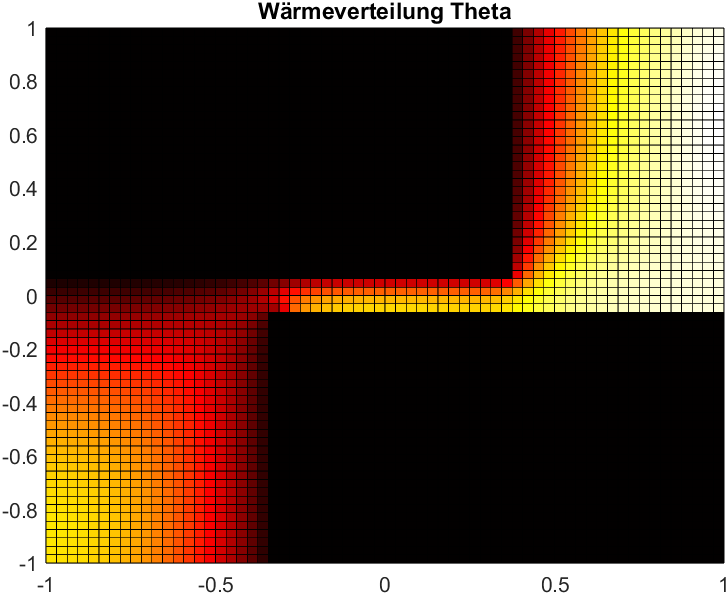
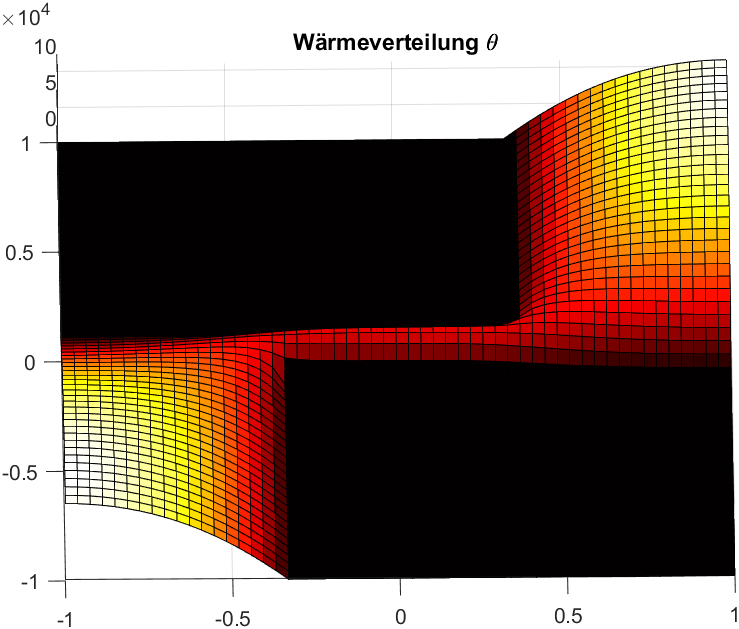
improved box meshing and added the power-loss plot

diff --git a/electro-thermal/createBoxes.m b/electro-thermal/createBoxes.m
@@ -21,9 +21,9 @@ inner_width = msh.nx - 2*outer_width;
 
 % --- Creating kappa Distribution -----------------------------------------
 
-boxeskappa(1).box = [1, outer_width+inner_width, outer_height+1, msh.ny, 1, msh.nz];
+boxeskappa(1).box = [1, outer_width+inner_width, outer_height, msh.ny, 1, msh.nz];
 boxeskappa(1).value = 0; 
-boxeskappa(2).box = [outer_width+1, msh.nx, 1, msh.ny-outer_height, 1, msh.nz];
+boxeskappa(2).box = [outer_width, msh.nx, 1, msh.ny-outer_height, 1, msh.nz];
 boxeskappa(2).value = 0;
 defaultkappa = kappa;
 kappaBox = boxMesher(msh, boxeskappa, defaultkappa);
@@ -55,7 +55,7 @@ potBox = boxMesher(msh, boxespot, defaultpot);
 % --- Creating initial heat Distribution ----------------------------------
 boxestemp(1).box = [1, outer_width+inner_width+1, outer_height, msh.ny, 1, msh.nz];
 boxestemp(1).value = temp_air; 
-boxestemp(2).box = [outer_width, msh.nx, 1, msh.ny-outer_height, 1, msh.nz];
+boxestemp(2).box = [outer_width, msh.nx, 1, msh.ny-outer_height+1, 1, msh.nz];
 boxestemp(2).value = temp_air;
 defaulttemp = NaN;
 tempBox = boxMesher(msh, boxestemp, defaulttemp);

diff --git a/electro-thermal/plotPotential.m b/electro-thermal/plotPotential.m
@@ -12,8 +12,9 @@ function plotPotential(msh, phi, indz)
 
     pick = ((indz-1)*msh.nx*msh.ny+1):indz*msh.nx*msh.ny;
     [X, Y] = meshgrid(msh.xmesh, msh.ymesh);
-    figure(1)
-        contourf(X, Y, reshape(phi(pick), msh.nx, msh.ny)', 15);
-        xlabel('x')
-        ylabel('y')
+
+    figure();
+    contourf(X, Y, reshape(phi(pick), msh.nx, msh.ny)', 15);
+    xlabel('x')
+    ylabel('y')
 end

diff --git a/README.md b/README.md
@@ -6,6 +6,8 @@ thermal propagation.
 
 ## Electro-Thermal
 
+# The electromagnetic solution first
+
 Calculation of the electric scalar Potential:
 
 <img src="pictures/potential.png" alt="" width=500 height=500> 
@@ -14,6 +16,14 @@ and the stationary current densities:
 
 <img src="pictures/current.png" alt="" width=500 height=500>
 
-Coupling via power loss in the dual grid cells yields the thermal solution:
+# Thermal coupling
+
+Coupling via power loss over the primal-edges/dual-surfaces:
+
+<img src="pictures/power.png" alt="" width=500 height=500>
+
+Solving the thermal problem with powerloss as right hand side
 
 <img src="pictures/thermal.png" alt="" width=500 height=500>
+
+ToDo: find error in thermal system ...
